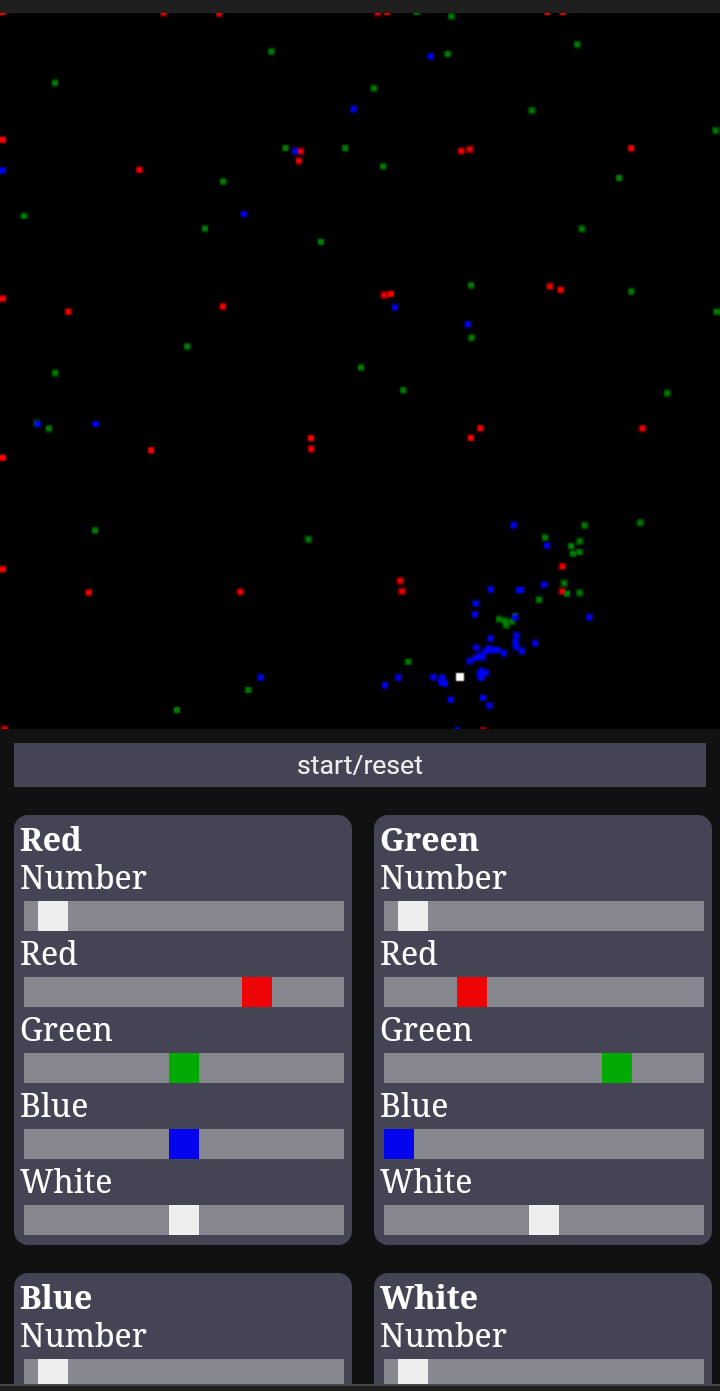
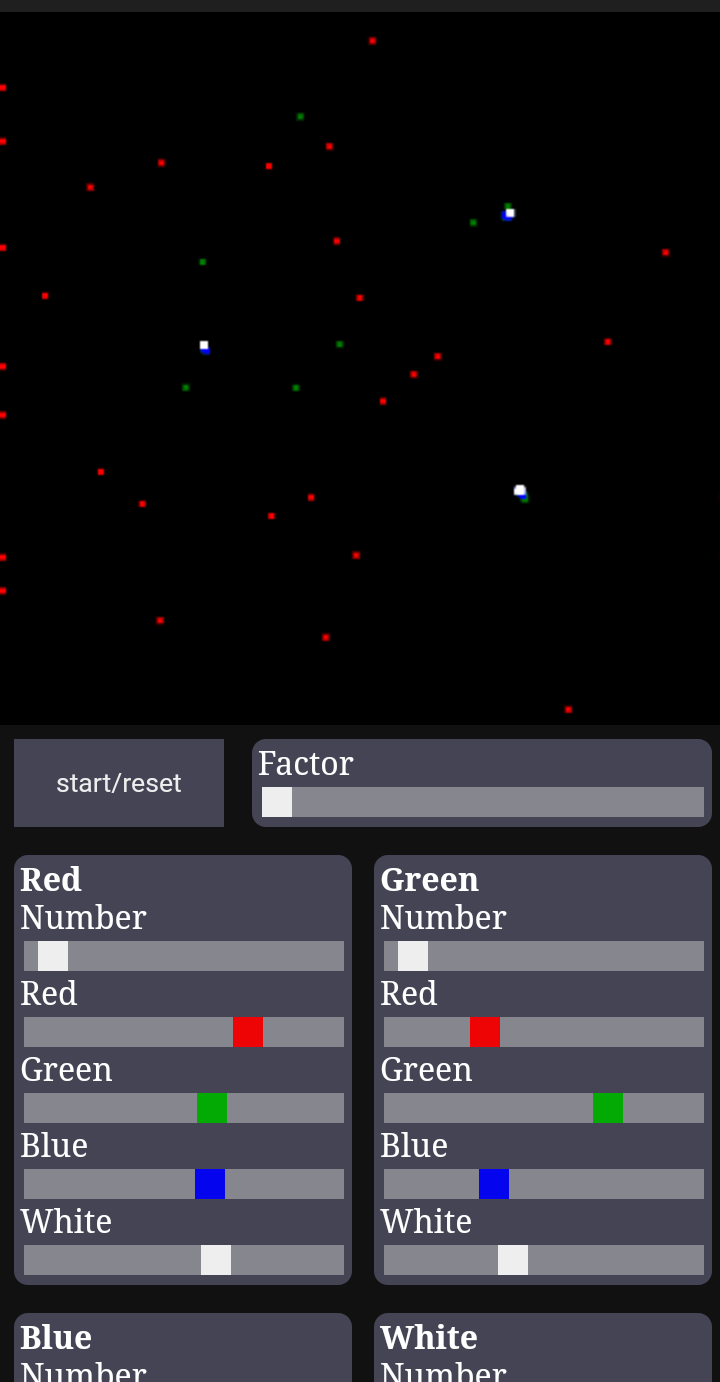
Changes: 	Added a factor Sliders 	Minor fixes to the attraction sliders 	Updated the UI a bit

diff --git a/particle_life.html b/particle_life.html
@@ -38,6 +38,11 @@
       grid-template-columns: auto;
       width: 100%;
     }
+    .idkatp {
+      display: grid;
+      grid-template-columns: auto auto;
+      width: 100%;
+    }
     .slidecontainer {
       margin: 7px 4px 7px 7px;
       padding: 3px 6px 3px 3px;
@@ -114,7 +119,13 @@
   <div class="canv">
     <canvas id="canvas"></canvas>
     <div class="res">
-      <input type="button" onclick="init()" value="start/reset" class="butt">
+      <div class="idkatp">
+        <input type="button" onclick="init()" value="start/reset" class="butt">
+        <div class="slidecontainer">
+          <span class="text">Factor</span>
+          <input type="range" min="1" max="10" value="1" class="slider" id="factor">
+        </div>
+      </div>
       <div class="col">
         <div class="slidecontainer">
           <span class="textcol">Red</span>
@@ -123,16 +134,16 @@
           <input type="range" min="1" max="1000" value="50" class="slider" id="num_red">
           <br>
           <span class="text">Red</span>
-          <input type="range" min="-2" max="2" value="0.878214014158254" class="red slider" id="gra_red_red">
+          <input type="range" min="-2000" max="2000" value="878.214014158254" class="red slider" id="gra_red_red">
           <br>
           <span class="text">Green</span>
-          <input type="range" min="-2" max="2" value="0.383942932294564" class="green slider" id="gra_red_green">
+          <input type="range" min="-2000" max="2000" value="383.942932294564" class="green slider" id="gra_red_green">
           <br>
           <span class="text">Blue</span>
-          <input type="range" min="-2" max="2" value="0.3632328353781209" class="blue slider" id="gra_red_blue">
+          <input type="range" min="-2000" max="2000" value="363.2328353781209" class="blue slider" id="gra_red_blue">
           <br>
           <span class="text">White</span>
-          <input type="range" min="-2" max="2" value="0.4357079645785089" class="white slider" id="gra_red_white">
+          <input type="range" min="-2000" max="2000" value="435.7079645785089" class="white slider" id="gra_red_white">
         </div>
         <div class="slidecontainer">
           <span class="textcol">Green</span>
@@ -141,16 +152,16 @@
           <input type="range" min="1" max="1000" value="50" class="slider" id="num_green">
           <br>
           <span class="text">Red</span>
-          <input type="range" min="-2" max="2" value="-0.8131279812066854" class="red slider" id="gra_green_red">
+          <input type="range" min="-2000" max="2000" value="-813.1279812066854" class="red slider" id="gra_green_red">
           <br>
           <span class="text">Green</span>
-          <input type="range" min="-2" max="2" value="0.8761564046567396" class="green slider" id="gra_green_green">
+          <input type="range" min="-2000" max="2000" value="876.1564046567396" class="green slider" id="gra_green_green">
           <br>
           <span class="text">Blue</span>
-          <input type="range" min="-2" max="2" value="-0.686246916739194" class="blue slider" id="gra_green_blue">
+          <input type="range" min="-2000" max="2000" value="-686.246916739194" class="blue slider" id="gra_green_blue">
           <br>
           <span class="text">White</span>
-          <input type="range" min="-2" max="2" value="-0.42403398294928163" class="white slider" id="gra_green_white">
+          <input type="range" min="-2000" max="2000" value="-424.03398294928163" class="white slider" id="gra_green_white">
         </div>
         <div class="slidecontainer">
           <span class="textcol">Blue</span>
@@ -159,16 +170,16 @@
           <input type="range" min="1" max="1000" value="50" class="slider" id="num_blue">
           <br>
           <span class="text">Red</span>
-          <input type="range" min="-2" max="2" value="0.8283611643992606" class="red slider" id="gra_blue_red">
+          <input type="range" min="-2000" max="2000" value="828.3611643992606" class="red slider" id="gra_blue_red">
           <br>
           <span class="text">Green</span>
-          <input type="range" min="-2" max="2" value="-0.8050409003234531" class="green slider" id="gra_blue_green">
+          <input type="range" min="-2000" max="2000" value="-805.0409003234531" class="green slider" id="gra_blue_green">
           <br>
           <span class="text">Blue</span>
-          <input type="range" min="-2" max="2" value="0.8422661062679588" class="blue slider" id="gra_blue_blue">
+          <input type="range" min="-2000" max="2000" value="842.2661062679588" class="blue slider" id="gra_blue_blue">
           <br>
           <span class="text">White</span>
-          <input type="range" min="-2" max="2" value="-0.6206303204367405" class="white slider" id="gra_blue_white">
+          <input type="range" min="-2000" max="2000" value="-620.6303204367405" class="white slider" id="gra_blue_white">
         </div>
         <div class="slidecontainer">
           <span class="textcol">White</span>
@@ -177,16 +188,16 @@
           <input type="range" min="1" max="1000" value="50" class="slider" id="num_white">
           <br>
           <span class="text">Red</span>
-          <input type="range" min="-2" max="2" value="-0.6276679142294777" class="red slider" id="gra_white_red">
+          <input type="range" min="-2000" max="2000" value="-627.6679142294777" class="red slider" id="gra_white_red">
           <br>
           <span class="text">Green</span>
-          <input type="range" min="-2" max="2" value="-0.48726835984229977" class="green slider" id="gra_white_green">
+          <input type="range" min="-2000" max="2000" value="-487.26835984229977" class="green slider" id="gra_white_green">
           <br>
           <span class="text">Blue</span>
-          <input type="range" min="-2" max="2" value="-0.8155039608681607" class="blue slider" id="gra_white_blue">
+          <input type="range" min="-2000" max="2000" value="-815.5039608681607" class="blue slider" id="gra_white_blue">
           <br>
           <span class="text">White</span>
-          <input type="range" min="-2" max="2" value="0.49503848830455155" class="white slider" id="gra_white_white">
+          <input type="range" min="-2000" max="2000" value="495.03848830455155" class="white slider" id="gra_white_white">
         </div>
       </div>
     </div>
@@ -194,31 +205,32 @@
   <script>
     init_rules = ()=> {
       // Rules values
-      factor = 2;
+      factor = document.getElementById("factor").value;
+      multiplier = 0.0001;
       RULES = {
         red: {
-          red: document.getElementById("gra_red_red").value * factor,
-          green: document.getElementById("gra_red_green").value * factor,
-          blue: document.getElementById("gra_red_blue").value * factor,
-          white: document.getElementById("gra_red_white").value * factor,
+          red: document.getElementById("gra_red_red").value * multiplier * factor,
+          green: document.getElementById("gra_red_green").value * multiplier * factor,
+          blue: document.getElementById("gra_red_blue").value * multiplier * factor,
+          white: document.getElementById("gra_red_white").value * multiplier * factor,
         },
         green: {
-          red: document.getElementById("gra_green_red").value * factor,
-          green: document.getElementById("gra_green_green").value * factor,
-          blue: document.getElementById("gra_green_blue").value * factor,
-          white: document.getElementById("gra_green_white").value * factor,
+          red: document.getElementById("gra_green_red").value * multiplier * factor,
+          green: document.getElementById("gra_green_green").value * multiplier * factor,
+          blue: document.getElementById("gra_green_blue").value * multiplier * factor,
+          white: document.getElementById("gra_green_white").value * multiplier * factor,
         },
         blue: {
-          red: document.getElementById("gra_blue_red").value * factor,
-          green: document.getElementById("gra_blue_green").value * factor,
-          blue: document.getElementById("gra_blue_blue").value * factor,
-          white: document.getElementById("gra_blue_white").value * factor,
+          red: document.getElementById("gra_blue_red").value * multiplier * factor,
+          green: document.getElementById("gra_blue_green").value * multiplier * factor,
+          blue: document.getElementById("gra_blue_blue").value * multiplier * factor,
+          white: document.getElementById("gra_blue_white").value * multiplier * factor,
         },
         white: {
-          red: document.getElementById("gra_white_red").value * factor,
-          green: document.getElementById("gra_white_green").value * factor,
-          blue: document.getElementById("gra_white_blue").value * factor,
-          white: document.getElementById("gra_white_white").value * factor,
+          red: document.getElementById("gra_white_red").value * multiplier * factor,
+          green: document.getElementById("gra_white_green").value * multiplier * factor,
+          blue: document.getElementById("gra_white_blue").value * multiplier * factor,
+          white: document.getElementById("gra_white_white").value * multiplier * factor,
         },
       };
 
